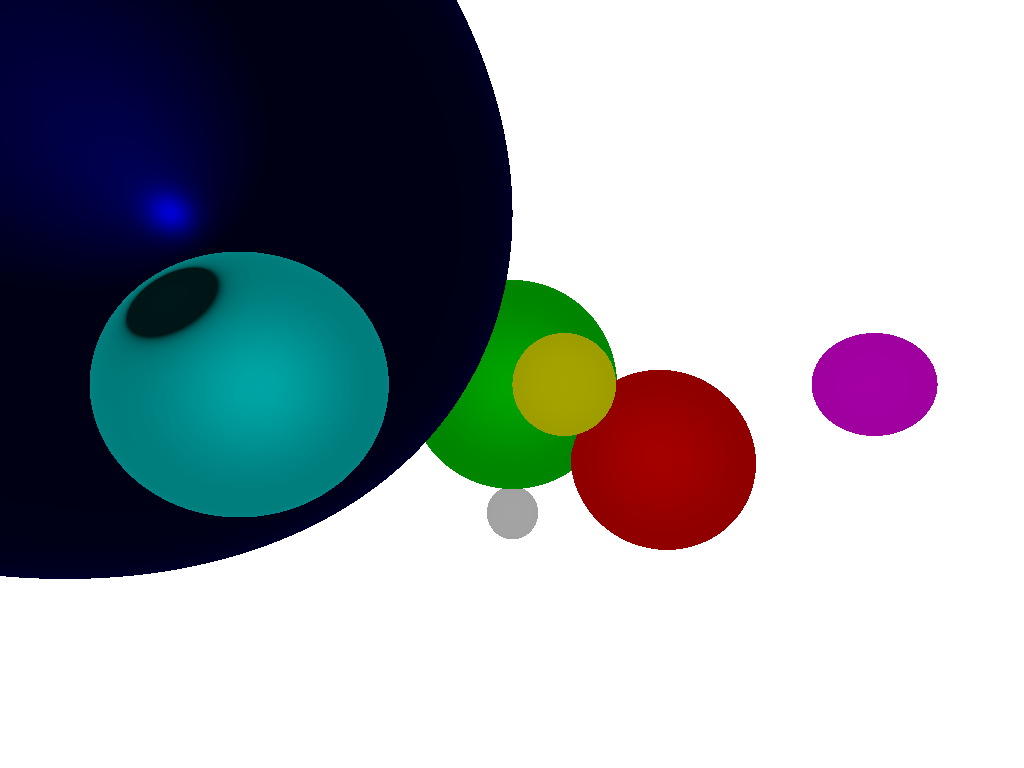
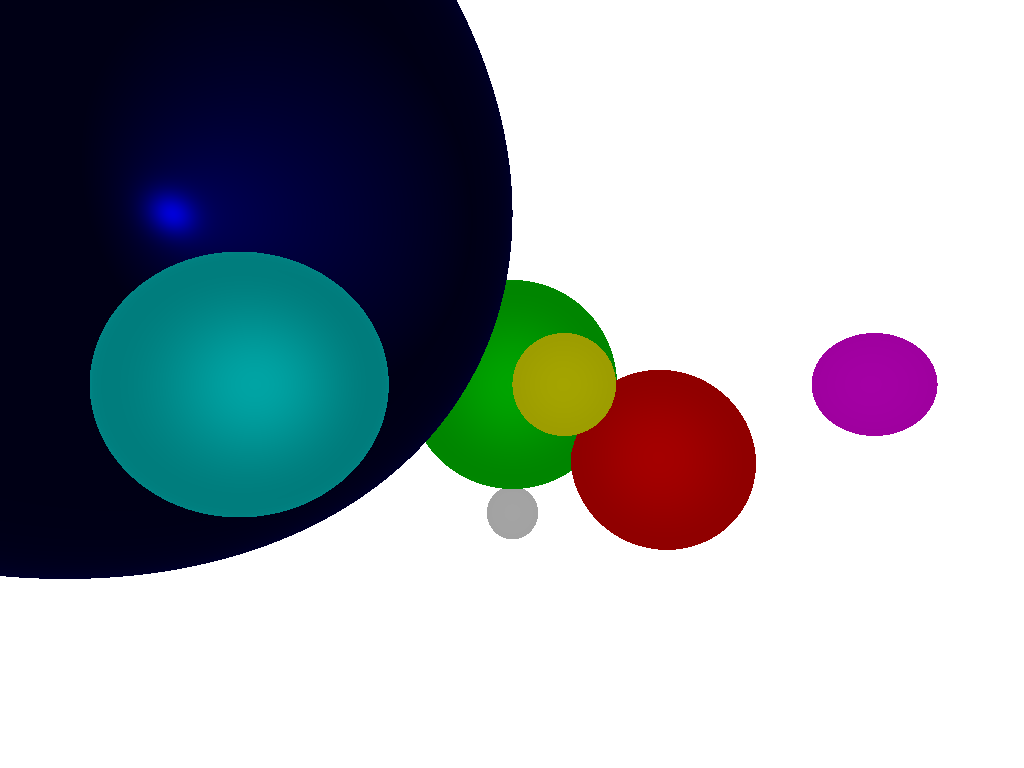
Maj

Changed region(s): [[0.0938, 0.125, 0.375, 0.4688], [0.0, 0.0, 0.1562, 0.3125]]

diff --git a/tp1/main.cpp b/tp1/main.cpp
@@ -73,15 +73,13 @@ int main() {
             
             if(intersection.valid())
             {
-                //double radius = ((Sphere *)intersection.geometry())->radius();
-                
-                Vector L = lights[1]->position();
+                Vector L = lights[0]->position();
                 Vector C = viewPoint;
                 Vector V = intersection.vec();
                 Vector E = (C - V);
                 // A Vérifier
                 Vector N = (V - ((Sphere *)intersection.geometry())->center()) + V;
-                Vector T = L - V;
+                Vector T = (L - V);
                 Vector R = N * (N * T) * 2 - T;
                 
                 E.normalize();
